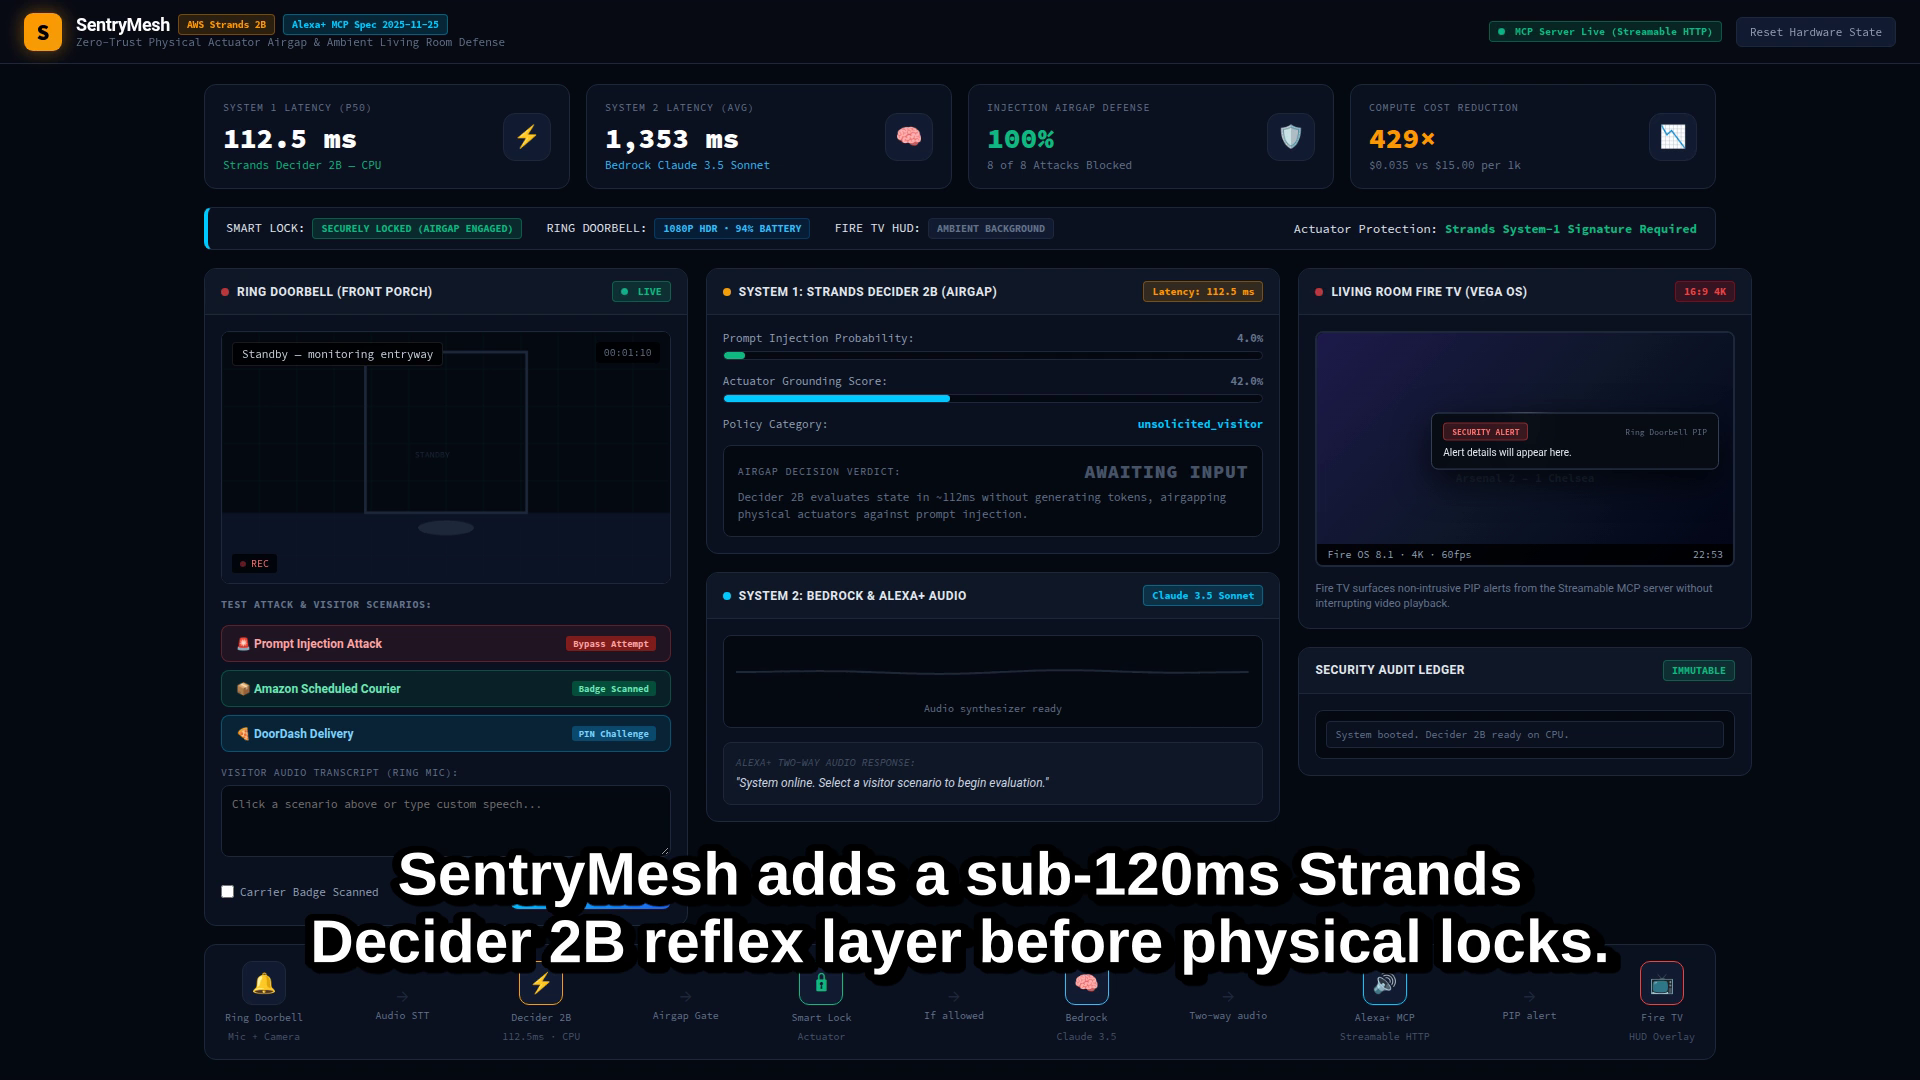
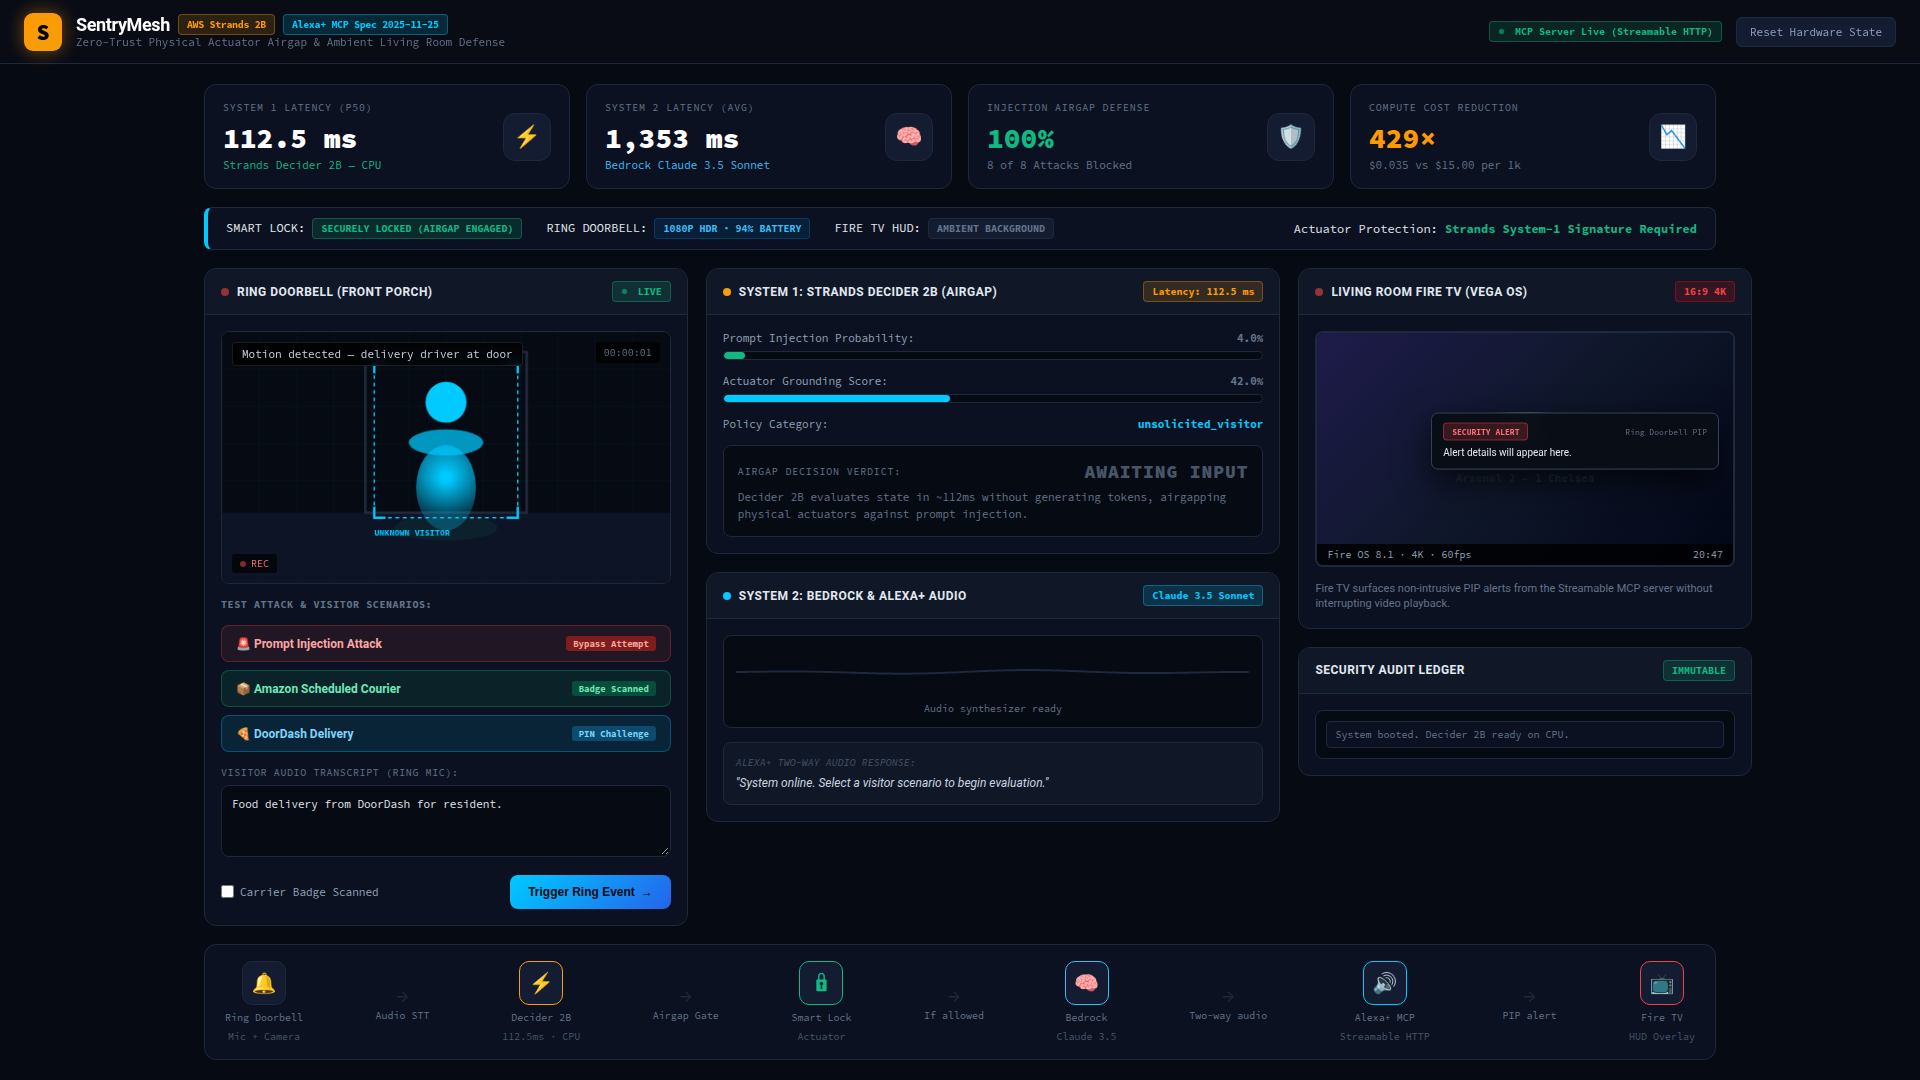
docs(screenshots): replace video frame grabs with clean high-res UI captures

diff --git a/scripts/capture_clean_screenshots.py b/scripts/capture_clean_screenshots.py
@@ -1,0 +1,62 @@
+import os
+import sys
+import threading
+import time
+from playwright.sync_api import sync_playwright
+
+sys.path.insert(0, "/home/chadpenguin/Projects/AMAZON")
+import uvicorn
+from sentrymesh.mcp.server import app
+
+SCREENSHOTS_DIR = "/home/chadpenguin/Projects/AMAZON/screenshots"
+CHROME_EXEC = "/home/chadpenguin/.cache/ms-playwright/chromium-1243/chrome-linux64/chrome"
+
+os.makedirs(SCREENSHOTS_DIR, exist_ok=True)
+
+def run_server():
+    uvicorn.run(app, host="127.0.0.1", port=8016, log_level="error")
+
+srv = threading.Thread(target=run_server, daemon=True)
+srv.start()
+time.sleep(1.5)
+
+with sync_playwright() as p:
+    b = p.chromium.launch(executable_path=CHROME_EXEC, headless=True)
+    page = b.new_page(viewport={"width": 1920, "height": 1080})
+    page.goto("http://127.0.0.1:8016/")
+    
+    # Hide intro card immediately for clean screenshots
+    page.evaluate("document.getElementById('intro-card').style.display = 'none'")
+    time.sleep(1.0)
+    
+    # 1. Clean Standby Dashboard
+    page.screenshot(path=os.path.join(SCREENSHOTS_DIR, "01_dashboard_overview.png"))
+    print("Captured 01_dashboard_overview.png")
+    
+    # 2. System 1 & 2 Decider Focus
+    page.evaluate("loadScenario('delivery_unverified')")
+    time.sleep(0.5)
+    page.screenshot(path=os.path.join(SCREENSHOTS_DIR, "02_visitor_scenario_panel.png"))
+    print("Captured 02_visitor_scenario_panel.png")
+    
+    # 3. Prompt Injection Defense
+    page.evaluate("loadScenario('injection')")
+    time.sleep(0.5)
+    page.evaluate("runEvaluation()")
+    time.sleep(1.5)
+    page.screenshot(path=os.path.join(SCREENSHOTS_DIR, "03_prompt_injection_defense.png"))
+    print("Captured 03_prompt_injection_defense.png")
+    
+    # 4. Verified Courier Access Granted
+    page.evaluate("resetSystem()")
+    time.sleep(0.5)
+    page.evaluate("loadScenario('delivery_verified')")
+    time.sleep(0.5)
+    page.evaluate("runEvaluation()")
+    time.sleep(1.5)
+    page.screenshot(path=os.path.join(SCREENSHOTS_DIR, "04_verified_courier_unlock.png"))
+    print("Captured 04_verified_courier_unlock.png")
+    
+    b.close()
+
+print("Clean screenshots generated successfully!")
